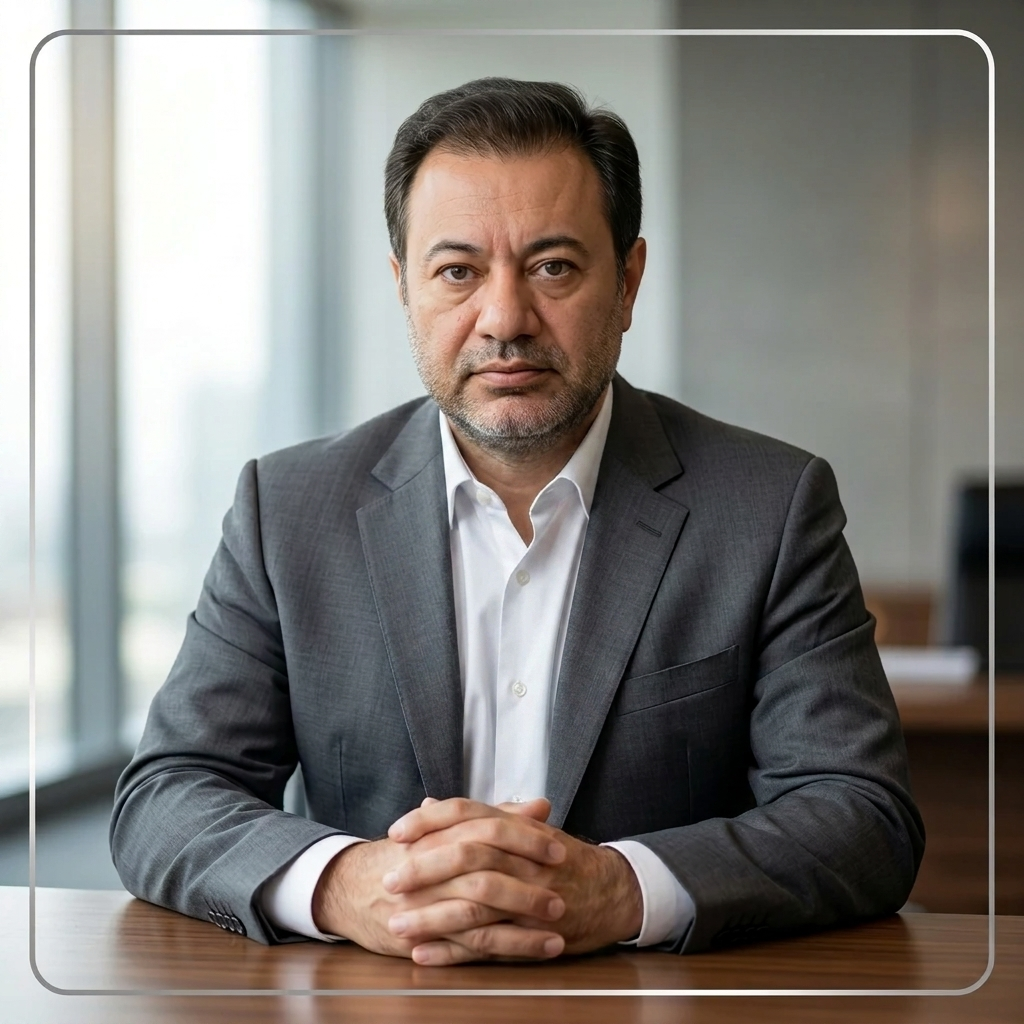
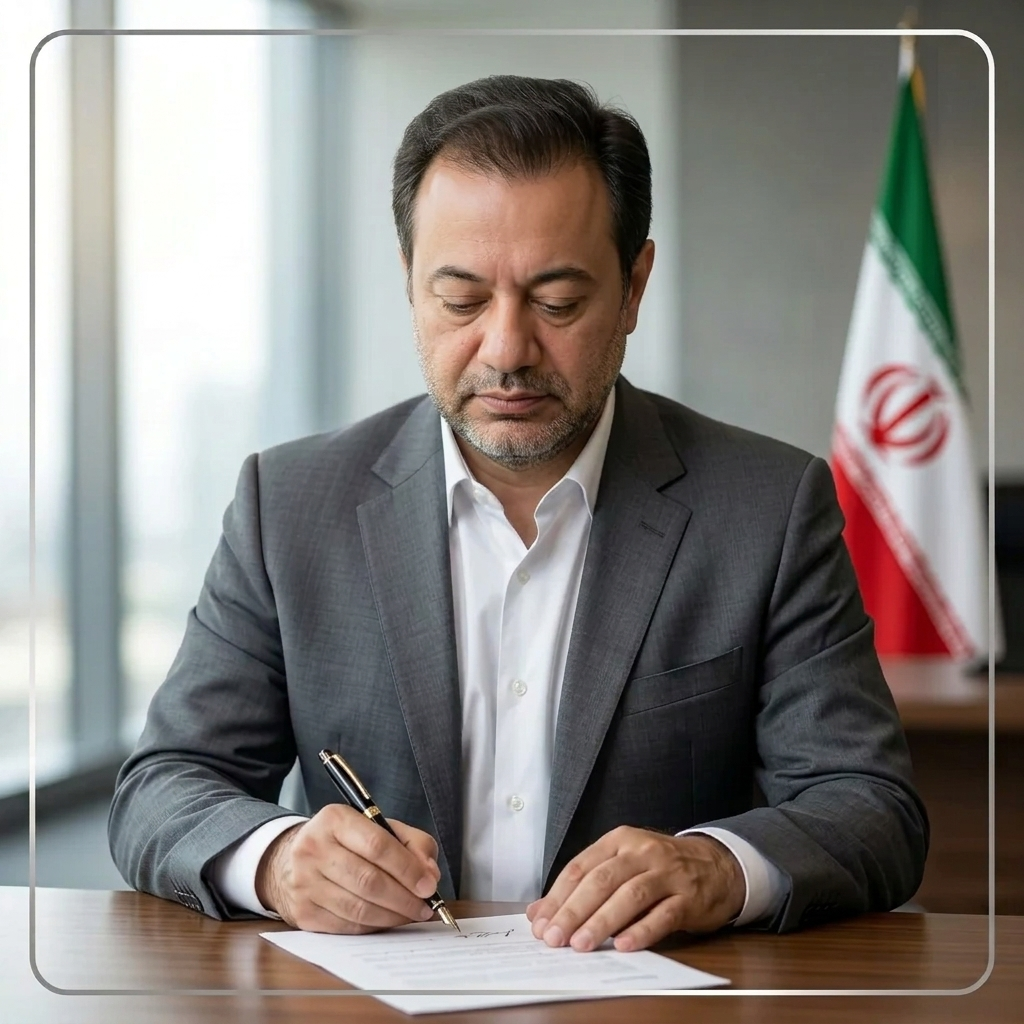
v1.0.18

diff --git a/public/site/assets/css/style.css b/public/site/assets/css/style.css
@@ -4019,7 +4019,7 @@ body.dark textarea {
 .about-premium-hero-content h1 {
     margin: 26px 0 28px;
     color: #07111f;
-    font-size: 64px;
+    font-size: 40px;
     line-height: 1.45;
     font-weight: 900;
     animation: aboutFadeUp .9s ease both;

diff --git a/resources/views/site/fa/about.blade.php b/resources/views/site/fa/about.blade.php
@@ -68,48 +68,6 @@
         </div>
     </section>
 
-    <section class="about-premium-intro">
-        <div class="section-header">
-            <span>Who We Are</span>
-            <h2>معرفی صندوق</h2>
-        </div>
-
-        <div class="about-premium-intro-box">
-            <div class="about-premium-intro-text">
-                <span>Corporate Venture Capital</span>
-
-                <h3>
-                    ما فقط سرمایهگذار نیستیم؛
-                    <br>
-                    شریک رشد کسبوکارهای آیندهساز هستیم.
-                </h3>
-
-                <p>
-                    توسعه دانشبنیان سینا با تمرکز بر سرمایهگذاری خطرپذیر، تلاش میکند ظرفیتهای نوآورانه را
-                    شناسایی، ارزیابی و توانمند کند. رویکرد ما صرفاً تزریق سرمایه نیست؛ بلکه همراهی تخصصی،
-                    منتورینگ، اتصال به شبکههای اثرگذار، تحلیل بازار و کمک به ساخت کسبوکارهای پایدار است.
-                </p>
-            </div>
-
-            <div class="about-premium-intro-stats">
-                <div class="about-premium-stat">
-                    <strong>+12</strong>
-                    <span>شرکت فعال</span>
-                </div>
-
-                <div class="about-premium-stat">
-                    <strong>+27</strong>
-                    <span>سرمایهگذاری</span>
-                </div>
-
-                <div class="about-premium-stat">
-                    <strong>+680</strong>
-                    <span>طرح بررسیشده</span>
-                </div>
-            </div>
-        </div>
-    </section>
-
     <section class="about-premium-values">
         <div class="section-header">
             <span>Our Foundation</span>

diff --git a/resources/views/site/fa/index.blade.php b/resources/views/site/fa/index.blade.php
@@ -101,12 +101,12 @@
             </div>
 
             <div class="sector-card">
-                <i class="fa-solid fa-seedling"></i>
+                <i class="fa-solid fa-building"></i>
                 <h3> صنعت ساختمان </h3>
             </div>
 
             <div class="sector-card">
-                <i class="fa-solid fa-bolt"></i>
+                <i class="fa-solid fa-oil-well"></i>
                 <h3>نفت و گاز</h3>
             </div>
 
